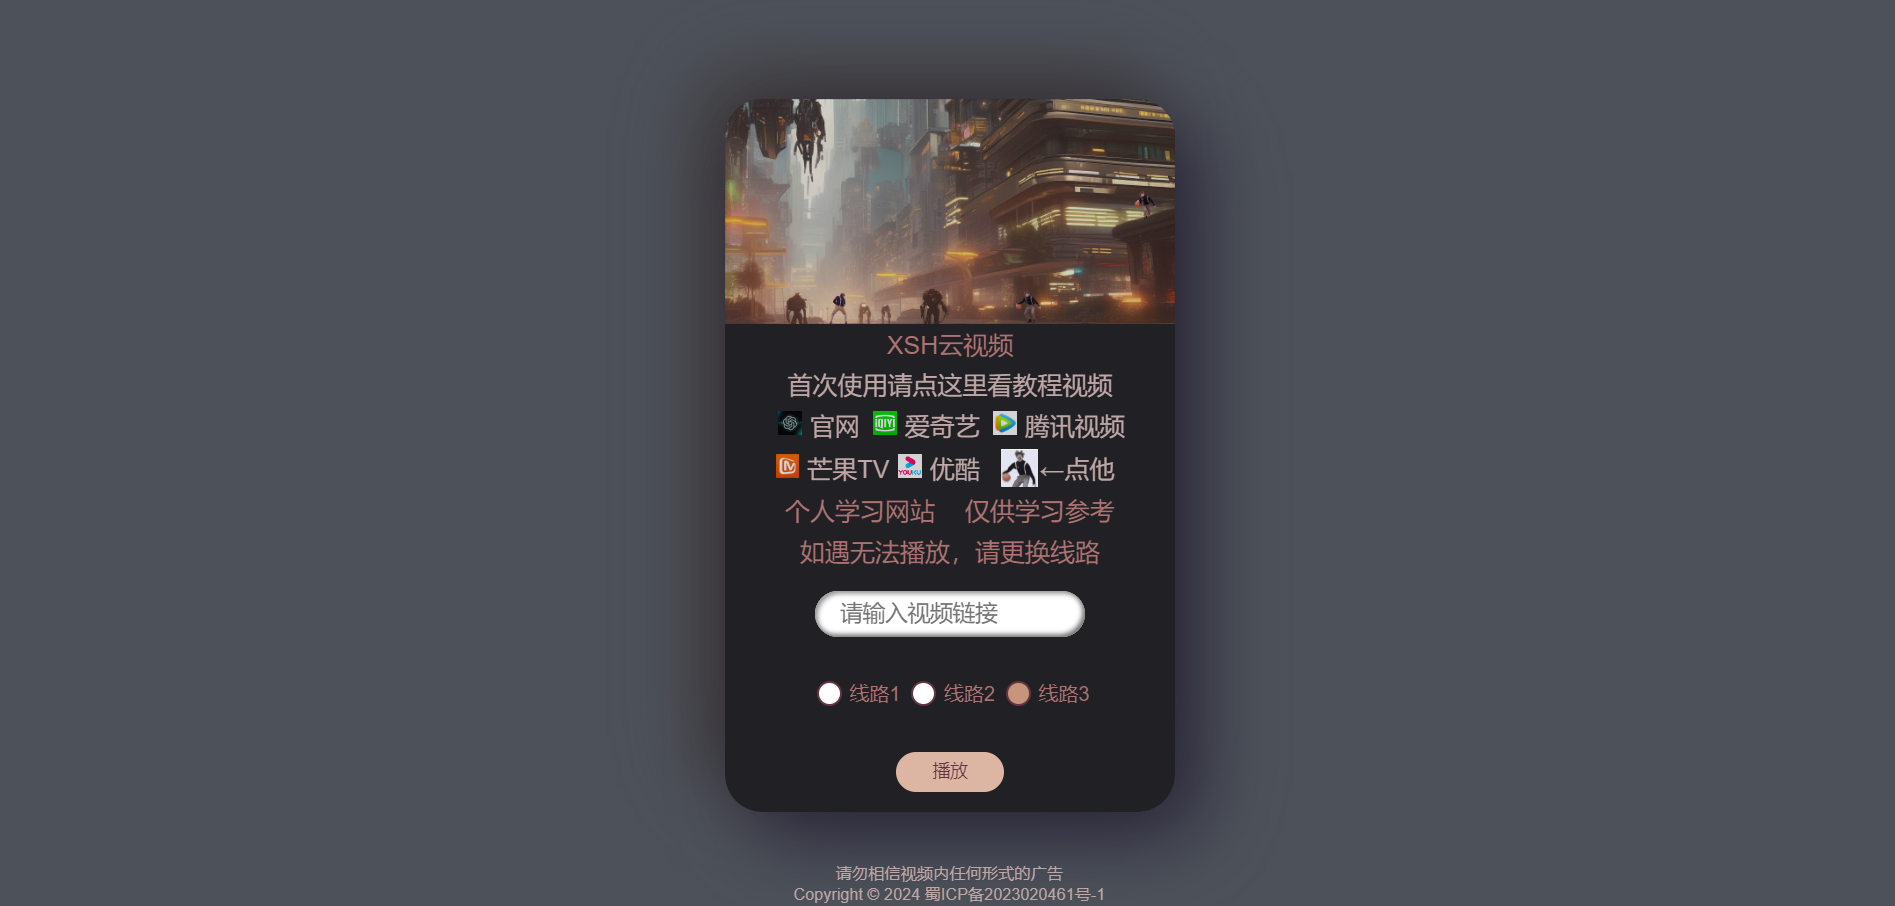
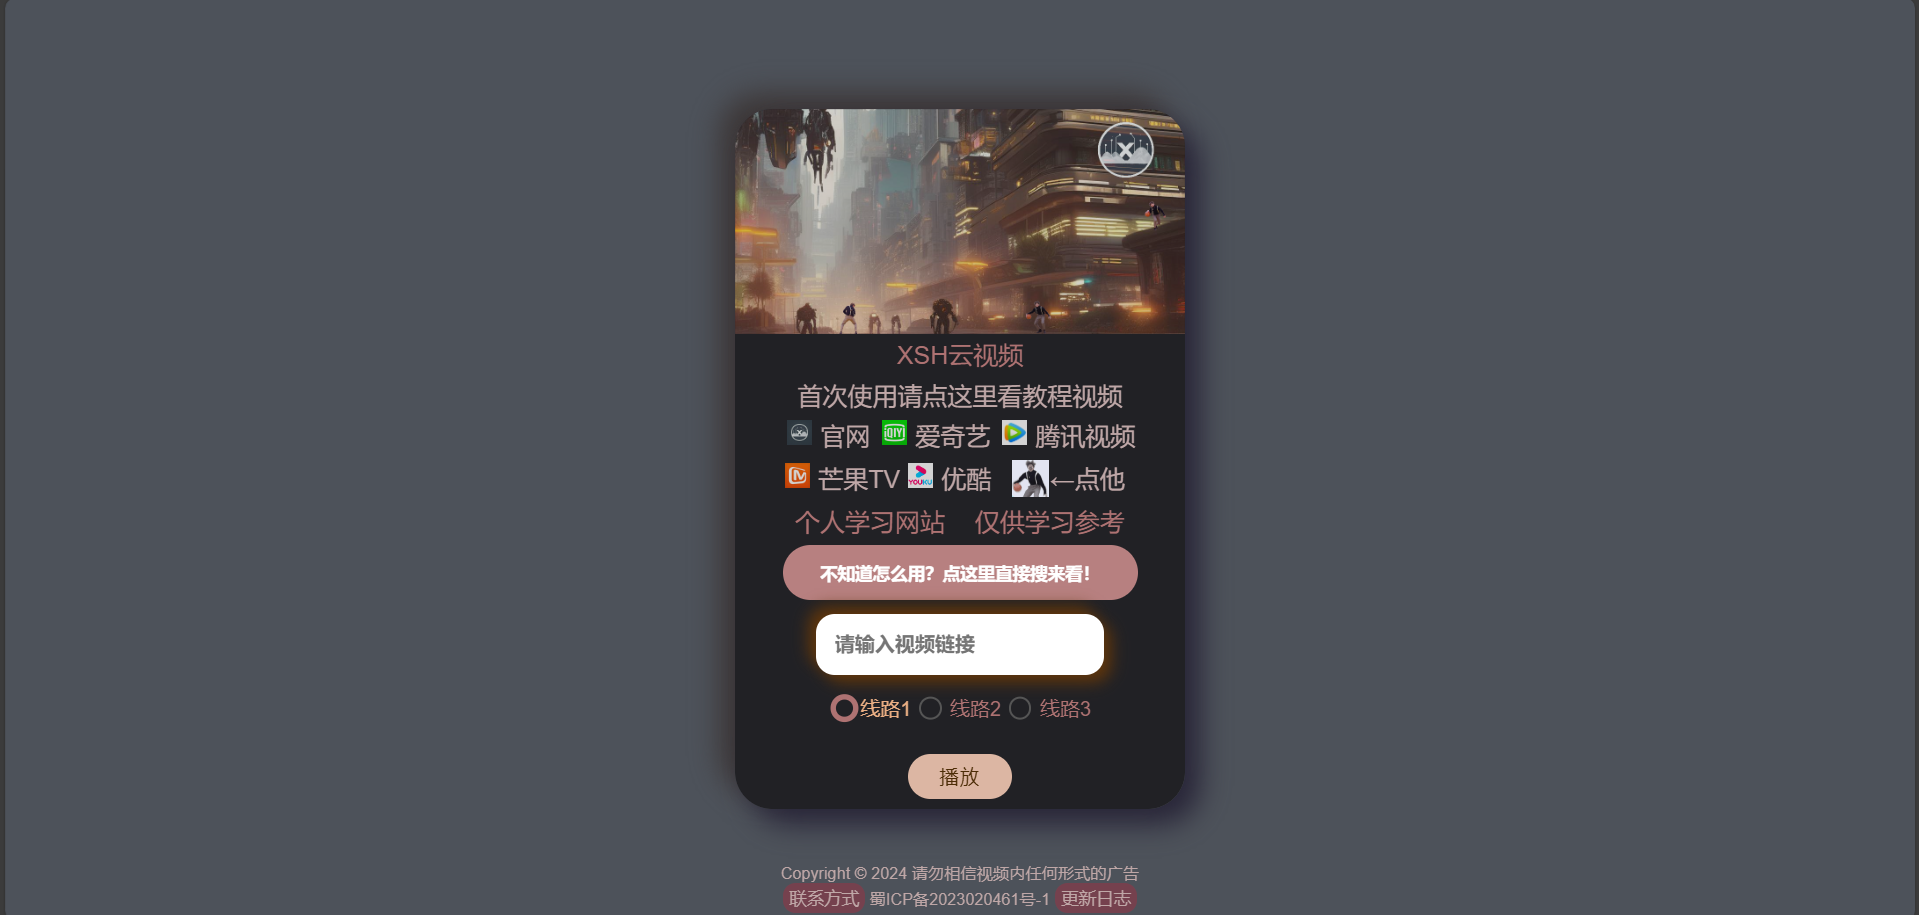
Add files via upload

Changed region(s): [[0.3736, 0.0927, 0.6227, 0.8962], [0.9963, 0.0, 1.0, 1.0], [0.4047, 0.9272, 0.5916, 1.0]]

diff --git a/index.html b/index.html
@@ -1,21 +1,23 @@
 <!DOCTYPE html>
 <html lang="en">
 <head>
+  <script async src="https://pagead2.googlesyndication.com/pagead/js/adsbygoogle.js?client=ca-pub-4904669660598565"
+     crossorigin="anonymous"></script>
   <meta charset="UTF-8">
-  <meta name="version" content="1.3.1">
+  <meta name="version" content="1.4.0">
   <meta name="viewport" content="width=device-width, initial-scale=1.0, user-scalable=no">
   <meta http-equiv="Cache-Control" content="no-cache, no-store, must-revalidate, max-age=0">
   <title>XSH云视频</title>
-  <link rel="stylesheet" href="./style.css?v=1.3.1">
-  <link rel="icon" href="public/gw.png?v=1.3.1">
-  <link rel="apple-touch-icon" sizes="180x180" href="public/gw.png?v=1.3.1">
-  <link rel="android-chrome" sizes="192x192" href="public/gw.png?v=1.3.1">
-  <link rel="android-chrome" sizes="512x512" href="public/gw.png?v=1.3.1">
+  <link rel="stylesheet" href="./style.css?v=1.4.0">
+  <link rel="icon" href="public/gw.png?v=1.4.0">
+  <link rel="apple-touch-icon" sizes="180x180" href="public/gw.png?v=1.4.0">
+  <link rel="android-chrome" sizes="192x192" href="public/gw.png?v=1.4.0">
+  <link rel="android-chrome" sizes="512x512" href="public/gw.png?v=1.4.0">
 </head>
 <body>
   <div class="card">
     <div class="card-front">
-      <img src="public\bj.jpg?v=1.3.1" alt="cat">
+      <img src="public\bj.jpg?v=1.4.0" alt="bj">
       <div class="desc">
         <div class="text">XSH云视频</div>
   </div>
@@ -57,7 +59,7 @@
         <div class="text">仅供学习参考</div>
       </div>
       <div class="desc">
-        <div class="text">如遇无法播放，请更换线路</div>
+        <a href="https://so.xshyun.top/" class="so">不知道怎么用？点这里直接搜来看！</a>
       </div>
       <form>
         <input type="url" id="media-url" placeholder="请输入视频链接" required autocomplete="off">
@@ -112,6 +114,6 @@
     </p>
 </footer>
   </div>
-  <script src="./script.js?v=1.3.1"></script>
+  <script src="./script.js?v=1.4.0"></script>
 </body>
 </html>

diff --git a/script.js b/script.js
@@ -3,6 +3,22 @@ let returnBtn = document.querySelector('.card-back .return')
 let cancelBtn = document.querySelector('.cancel-btn')
 let delay
 
+document.addEventListener('DOMContentLoaded', function() {
+  const urlParams = new URLSearchParams(window.location.search);
+  const videoUrl = urlParams.get('videoUrl');
+  if (videoUrl) {
+      const mediaInput = document.getElementById('media-url');
+      mediaInput.value = decodeURIComponent(videoUrl);
+
+      const playButton = document.querySelector('button[type="submit"].play');
+      if (playButton) {
+          setTimeout(function() {
+              playButton.click();
+          }, 500);
+      }
+  }
+});
+
 window.onresize = function () {
   document.body.style.minHeight = window.innerHeight + 'px'
 }

diff --git a/style.css b/style.css
@@ -571,3 +571,33 @@ body {
 .audio-play-button:hover {
   opacity: 0.8;
 }
+
+.so {
+  display: inline-block; 
+  padding: 12.5px 30px;
+  border: 0;
+  border-radius: 100px;
+  background-color: #b78080;
+  color: #ffffff;
+  font-weight: bold;
+  font-size: 14px; 
+  text-decoration: none;
+  transition: all 0.5s;
+  -webkit-transition: all 0.5s;
+}
+
+.so:hover {
+  background-color: #83525e;
+  box-shadow: 0 0 20px #6fc5ff50;
+  transform: scale(1.1);
+}
+
+.so:active {
+  background-color: #75414e;
+  transition: all 0.25s;
+  -webkit-transition: all 0.25s;
+  box-shadow: none;
+  transform: scale(0.98);
+}
+
+

diff --git a/README.md b/README.md
@@ -7,6 +7,7 @@
 此项目仅用于Web开发学习、交流，请勿商用。
 
 ## 更新记录
++ 2024-08-16 重磅更新！全新视频搜索页上线，可以直接全平台搜索想看的视频，一键导入视频网播放。搜索页地址：XSH云视频搜索页 (xshyun.top)
 + 2024-07-22晚间 重新排列线路顺序，更换线路3解析接口。新增.card:hover的CSS样式，使卡片动画更加立体。添加了线路选择的tooltip，以及页面下方更新日志按钮。
 + 2024-07-22凌晨 更换输入框、线路选择按钮、播放键、返回键的CSS样式，目前动画更生动一些。
 + 2024-07-19 添加底部联系方式按钮，欢迎反馈Bug或交流经验！
